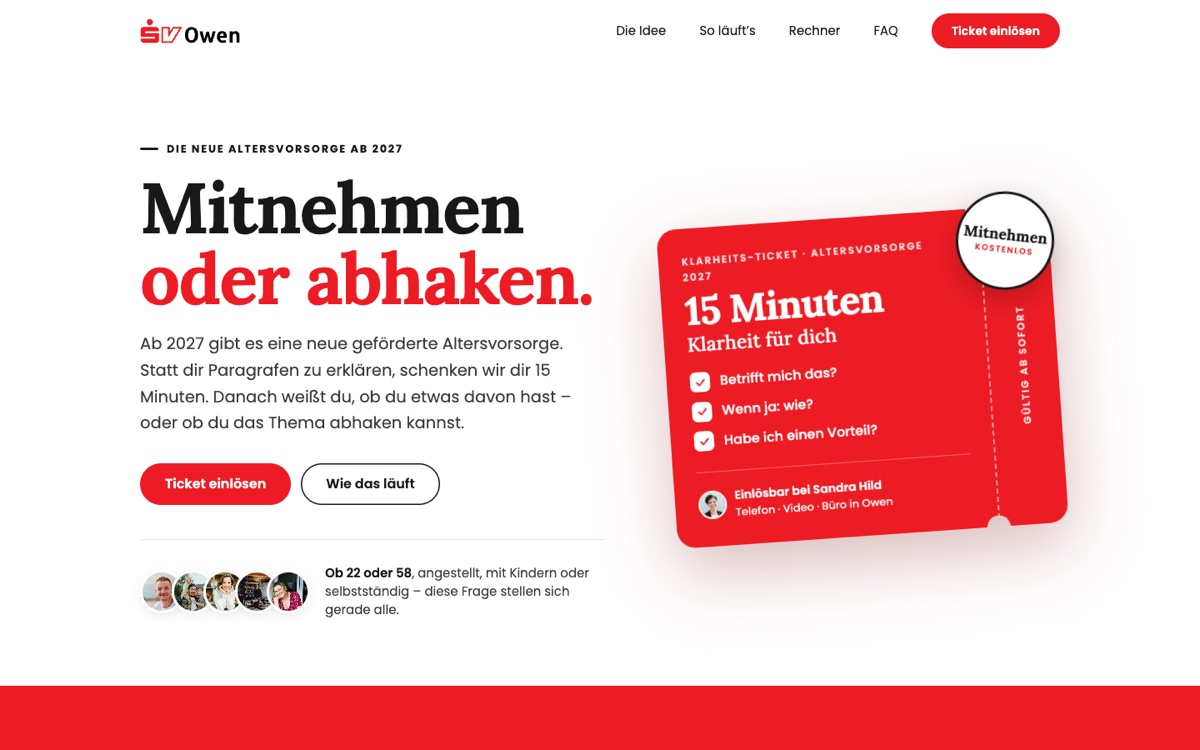
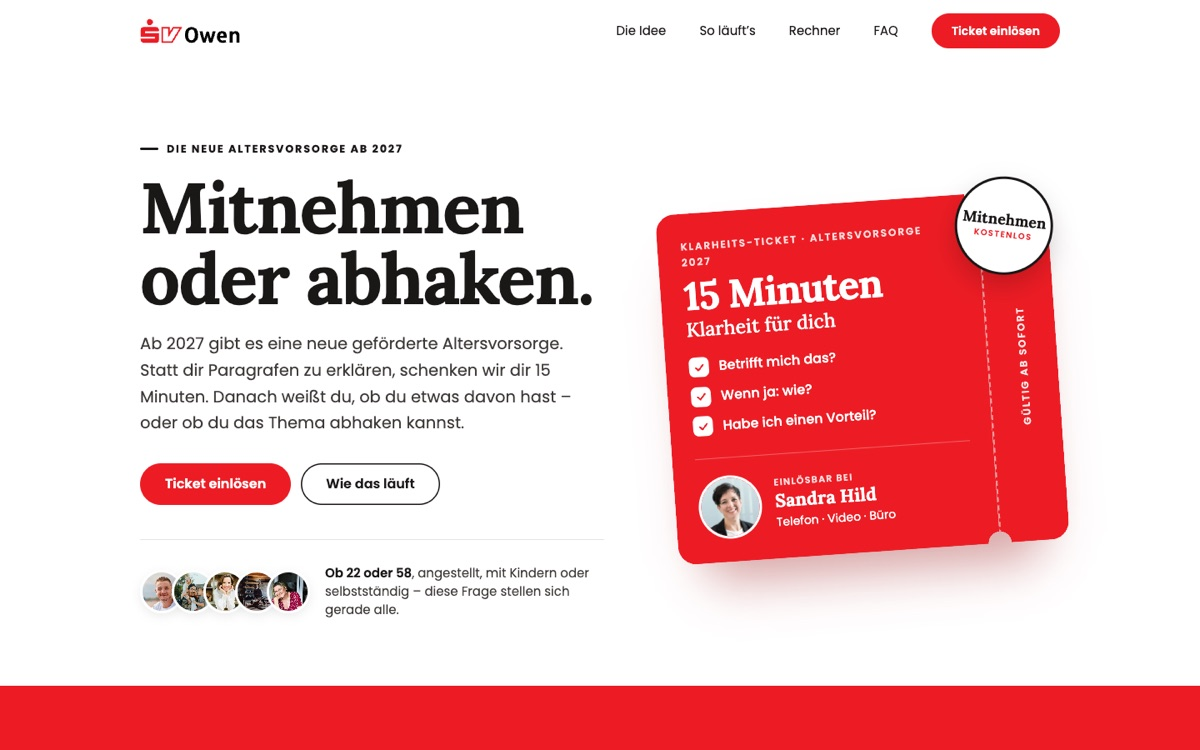
AVRG Landingpage 3: Ticket-Schatten ohne eckige Fläche (auch Ticket-Posting und Flyer), Überschrift nur schwarz, „Die Idee“ als helle Karte mit Sprechblasen; alle Vorschauen nachgezogen

diff --git a/site/projekte/avrg.html b/site/projekte/avrg.html
@@ -691,15 +691,15 @@ if(document.readyState==='loading')document.addEventListener('DOMContentLoaded',
       <p class="e2-kicker">Landingpage &middot; drei Varianten</p>
       <div class="ak-varianten">
         <a class="ak-karte lpv" href="/projekte/avrg-landingpage-1.html">
-          <span class="lpv-fenster"><span class="lpv-leiste"><i></i><i></i><i></i><span>agentur-beispiel.de/neue-altersvorsorge</span></span><span class="lpv-seite"><img src="/assets/projekte/avrg/lp-vorschau-voll-1.jpg?v=7" alt="Vorschau der ganzen Landingpage, Variante 1" loading="lazy"></span><span class="lpv-hinweis">Zum Durchscrollen darüberfahren</span></span>
+          <span class="lpv-fenster"><span class="lpv-leiste"><i></i><i></i><i></i><span>agentur-beispiel.de/neue-altersvorsorge</span></span><span class="lpv-seite"><img src="/assets/projekte/avrg/lp-vorschau-voll-1.jpg?v=8" alt="Vorschau der ganzen Landingpage, Variante 1" loading="lazy"></span><span class="lpv-hinweis">Zum Durchscrollen darüberfahren</span></span>
           <span class="ak-karte-text"><small>Landingpage &middot; Variante 1</small><b>Nah an der Vorlage</b><p>Kopf und Aufmacher exakt wie die bestehenden Landingpages von SV Owen: Foto über die volle Breite, Text mittig, roter Knopf. Darunter Problem, Lösung, Rechner, Termin.</p><span class="ak-pfeil">Variante 1 öffnen &rarr;</span></span>
         </a>
         <a class="ak-karte lpv" href="/projekte/avrg-landingpage-2.html">
-          <span class="lpv-fenster"><span class="lpv-leiste"><i></i><i></i><i></i><span>agentur-beispiel.de/neue-altersvorsorge-2</span></span><span class="lpv-seite"><img src="/assets/projekte/avrg/lp-vorschau-voll-2.jpg?v=7" alt="Vorschau der ganzen Landingpage, Variante 2" loading="lazy"></span><span class="lpv-hinweis">Zum Durchscrollen darüberfahren</span></span>
+          <span class="lpv-fenster"><span class="lpv-leiste"><i></i><i></i><i></i><span>agentur-beispiel.de/neue-altersvorsorge-2</span></span><span class="lpv-seite"><img src="/assets/projekte/avrg/lp-vorschau-voll-2.jpg?v=8" alt="Vorschau der ganzen Landingpage, Variante 2" loading="lazy"></span><span class="lpv-hinweis">Zum Durchscrollen darüberfahren</span></span>
           <span class="ak-karte-text"><small>Landingpage &middot; Variante 2</small><b>Was trifft auf dich zu?</b><p>Gleiche Farben und Elemente, eigene Story: Der Besucher wählt oben seine Lebenslage, die Seite antwortet mit seiner Frage. Dann das Gespräch als Zeitleiste.</p><span class="ak-pfeil">Variante 2 öffnen &rarr;</span></span>
         </a>
         <a class="ak-karte lpv" href="/projekte/avrg-landingpage-3.html">
-          <span class="lpv-fenster"><span class="lpv-leiste"><i></i><i></i><i></i><span>agentur-beispiel.de/neue-altersvorsorge-3</span></span><span class="lpv-seite"><img src="/assets/projekte/avrg/lp-vorschau-voll-3.jpg?v=7" alt="Vorschau der ganzen Landingpage, Variante 3" loading="lazy"></span><span class="lpv-hinweis">Zum Durchscrollen darüberfahren</span></span>
+          <span class="lpv-fenster"><span class="lpv-leiste"><i></i><i></i><i></i><span>agentur-beispiel.de/neue-altersvorsorge-3</span></span><span class="lpv-seite"><img src="/assets/projekte/avrg/lp-vorschau-voll-3.jpg?v=8" alt="Vorschau der ganzen Landingpage, Variante 3" loading="lazy"></span><span class="lpv-hinweis">Zum Durchscrollen darüberfahren</span></span>
           <span class="ak-karte-text"><small>Landingpage &middot; Variante 3</small><b>Das Klarheits-Ticket</b><p>Maßstab Volksfest-Seite: ein rotes Ticket „15 Minuten Klarheit“ als Bildidee, fünf Menschen, fünf Fragen, kräftige Flächen.</p><span class="ak-pfeil">Variante 3 öffnen &rarr;</span></span>
         </a>
       </div>

diff --git a/site/assets/projekte/avrg/avrg-v3.css b/site/assets/projekte/avrg/avrg-v3.css
@@ -52,7 +52,8 @@ h1,h2,h3{font-family:var(--head);font-weight:700;letter-spacing:-.02em;line-heig
 
 /* Das Klarheits-Ticket */
 .ticket-buehne{position:relative;display:grid;place-items:center;padding:30px 0}
-.ticket{position:relative;display:grid;grid-template-columns:1fr 84px;width:min(100%,470px);transform:rotate(-4deg);filter:drop-shadow(0 30px 40px rgba(120,10,10,.28));transition:transform .4s ease}
+.ticket{position:relative;display:grid;grid-template-columns:1fr 84px;width:min(100%,470px);transform:rotate(-4deg);isolation:isolate;transition:transform .4s ease}
+.ticket::before{content:"";position:absolute;z-index:-1;left:6%;right:6%;top:14%;bottom:-6%;border-radius:40px;background:rgba(150,20,20,.38);filter:blur(28px)}
 .ticket:hover{transform:rotate(-2deg) translateY(-4px)}
 .ticket__haupt,.ticket__abriss{background:var(--rot);color:#fff}
 .ticket__haupt{border-radius:22px 0 0 22px;padding:30px 28px 28px;
@@ -81,12 +82,16 @@ h1,h2,h3{font-family:var(--head);font-weight:700;letter-spacing:-.02em;line-heig
 /* ---------- Die Idee (rot) ---------- */
 .v3-zwei{display:grid;grid-template-columns:minmax(0,1fr) minmax(0,1fr);gap:clamp(32px,5vw,72px);align-items:center}
 .v3-idee p.v3-lead + p.v3-lead{margin-top:1rem}
-.v3-stimmen{background:var(--ink);color:#fff;border-radius:20px;padding:clamp(28px,3.4vw,40px)}
-.v3-stimmen ul{list-style:none;margin:0;padding:0;display:grid;gap:1.1rem}
-.v3-stimmen li{font-family:var(--head);font-size:clamp(1.3rem,2vw,1.6rem);line-height:1.3}
-.v3-stimmen li::before{content:"„"}
-.v3-stimmen li::after{content:"“"}
-.v3-stimmen p{margin-top:1.6rem;padding-top:1.3rem;border-top:2px solid var(--rot);font-size:15px;color:#d8d3cc;line-height:1.6}
+.v3-stimmen{background:#fff;color:var(--ink);border-radius:24px;padding:clamp(26px,3.2vw,38px);box-shadow:0 30px 60px -30px rgba(90,0,0,.45)}
+.v3-stimmen__titel{font-family:var(--head);font-weight:700;font-size:1.35rem;margin:0 0 1.2rem;color:var(--ink)}
+.v3-stimmen ul{list-style:none;margin:0;padding:0;display:grid;gap:14px}
+.v3-stimmen li{display:flex;align-items:flex-end;gap:12px}
+.v3-stimmen li:nth-child(2){flex-direction:row-reverse}
+.v3-stimmen li img{width:46px;height:46px;border-radius:50%;object-fit:cover;flex:none}
+.v3-stimmen li span{background:var(--hell);border-radius:20px 20px 20px 6px;padding:13px 17px;font-size:1.02rem;line-height:1.4;max-width:82%}
+.v3-stimmen li:nth-child(2) span{border-radius:20px 20px 6px 20px}
+.v3-stimmen__fuss{display:flex;align-items:center;gap:12px;margin-top:1.5rem;padding-top:1.2rem;border-top:1px solid var(--line);font-size:15px;color:var(--text);line-height:1.5}
+.v3-stimmen__fuss b{color:var(--rot);font-weight:600}
 
 /* ---------- Menschen ---------- */
 .v3-menschen{display:grid;grid-template-columns:repeat(5,minmax(0,1fr));gap:16px;margin-top:clamp(36px,4vw,52px)}

diff --git a/site/projekte/avrg-landingpage-3.html b/site/projekte/avrg-landingpage-3.html
@@ -7,7 +7,7 @@
 <meta name="description" content="Die neue geförderte Altersvorsorge ab 2027: Dein Klarheits-Ticket – in 15 Minuten weißt du, ob du etwas davon hast.">
 <meta name="robots" content="noindex, nofollow">
 <link rel="stylesheet" href="/assets/projekte/avrg/avrg.css?v=2">
-<link rel="stylesheet" href="/assets/projekte/avrg/avrg-v3.css?v=2">
+<link rel="stylesheet" href="/assets/projekte/avrg/avrg-v3.css?v=8">
 </head>
 <body>
 <svg width="0" height="0" style="position:absolute" aria-hidden="true"><defs>
@@ -36,7 +36,7 @@
 <section class="v3-held"><div class="wrap">
   <div>
     <p class="v3-kicker">Die neue Altersvorsorge ab 2027</p>
-    <h1>Mitnehmen <span class="v3-rot">oder abhaken.</span></h1>
+    <h1>Mitnehmen oder abhaken.</h1>
     <p class="v3-lead">Ab 2027 gibt es eine neue geförderte Altersvorsorge. Statt dir Paragrafen zu erklären, schenken wir dir 15 Minuten. Danach weißt du, ob du etwas davon hast – oder ob du das Thema abhaken kannst.</p>
     <div class="v3-knoepfe"><a class="knopf" href="#termin">Ticket einlösen</a><a class="knopf knopf--rand" href="#so-gehts">Wie das läuft</a></div>
     <div class="v3-leute"><span class="v3-leute__fotos"><img src="/assets/projekte/avrg/fotos/junger-mann.jpg" alt=""><img src="/assets/projekte/avrg/fotos/vater-kinder.jpg" alt=""><img src="/assets/projekte/avrg/fotos/frau-40.jpg" alt=""><img src="/assets/projekte/avrg/fotos/handwerker.jpg" alt=""><img src="/assets/projekte/avrg/fotos/frau-55.jpg" alt=""></span><p><b>Ob 22 oder 58</b>, angestellt, mit Kindern oder selbstständig – diese Frage stellen sich gerade alle.</p></div>
@@ -66,8 +66,13 @@
     <p class="v3-lead">Wir drehen es um. Wir erklären dir nicht das Gesetz – wir schauen auf dein Leben und sagen dir, ob das Gesetz darin eine Rolle spielt.</p>
   </div>
   <div class="v3-stimmen">
-    <ul><li>Ich habe Post bekommen und verstehe nur Bahnhof.</li><li>Ist mein Riester-Vertrag jetzt schlecht?</li><li>Alle sagen, das muss man machen. Muss ich?</li></ul>
-    <p>Kommt dir einer dieser Sätze bekannt vor? Dann ist das Ticket für dich.</p>
+    <p class="v3-stimmen__titel">Kommt dir das bekannt vor?</p>
+    <ul>
+      <li><img src="/assets/projekte/avrg/fotos/frau-brief.jpg" alt=""><span>Ich habe Post bekommen und verstehe nur Bahnhof.</span></li>
+      <li><img src="/assets/projekte/avrg/fotos/frau-40.jpg" alt=""><span>Ist mein Riester-Vertrag jetzt schlecht?</span></li>
+      <li><img src="/assets/projekte/avrg/fotos/vater-kinder.jpg" alt=""><span>Alle sagen, das muss man machen. Muss ich?</span></li>
+    </ul>
+    <p class="v3-stimmen__fuss"><b>→</b> Dann ist das Klarheits-Ticket für dich.</p>
   </div>
 </div></section>
 

diff --git a/site/projekte/avrg-medienkonzept.html b/site/projekte/avrg-medienkonzept.html
@@ -13,7 +13,7 @@
 <link rel="stylesheet" href="/assets/e2/schwarzgelb-ergaenzung.css">
 <link rel="stylesheet" href="/assets/e2/kontakt.css">
 <link rel="stylesheet" href="/assets/projekte/avrg/avrg-konzept.css?v=4">
-<link rel="stylesheet" href="/assets/projekte/avrg/avrg-mk.css?v=2">
+<link rel="stylesheet" href="/assets/projekte/avrg/avrg-mk.css?v=8">
 </head>
 <body class="e2">
 
@@ -741,10 +741,10 @@ if(document.readyState==='loading')document.addEventListener('DOMContentLoaded',
       <p class="e2-lead">Drei Varianten zur Auswahl. Jeder Baustein beantwortet eine Frage, die der Besucher in diesem Moment hat – und führt zum Termin.</p>
       <div class="ak-lp" style="margin-top:clamp(32px,4vw,48px)">
         <div>
-          <div class="mk-varianten"><button type="button" class="mk-variante" data-v="1" aria-pressed="true"><img src="/assets/projekte/avrg/lp-vorschau-1.jpg?v=7" alt="">Variante 1 · Vorlage</button><button type="button" class="mk-variante" data-v="2" aria-pressed="false"><img src="/assets/projekte/avrg/lp-vorschau-2.jpg?v=7" alt="">Variante 2 · Lebenslage</button><button type="button" class="mk-variante" data-v="3" aria-pressed="false"><img src="/assets/projekte/avrg/lp-vorschau-3.jpg?v=7" alt="">Variante 3 · Ticket</button></div>
+          <div class="mk-varianten"><button type="button" class="mk-variante" data-v="1" aria-pressed="true"><img src="/assets/projekte/avrg/lp-vorschau-1.jpg?v=8" alt="">Variante 1 · Vorlage</button><button type="button" class="mk-variante" data-v="2" aria-pressed="false"><img src="/assets/projekte/avrg/lp-vorschau-2.jpg?v=8" alt="">Variante 2 · Lebenslage</button><button type="button" class="mk-variante" data-v="3" aria-pressed="false"><img src="/assets/projekte/avrg/lp-vorschau-3.jpg?v=8" alt="">Variante 3 · Ticket</button></div>
           <div class="ak-browser">
             <div class="ak-browser-bar"><i></i><i></i><i></i><span id="mk-lp-url">agentur-beispiel.de/neue-altersvorsorge</span></div>
-            <div class="ak-browser-seite" tabindex="0" aria-label="Vorschau der Landingpage, scrollbar"><img id="mk-lp-bild" src="/assets/projekte/avrg/lp-vorschau-voll-1.jpg?v=7" alt="Vorschau der gesamten Landingpage"></div>
+            <div class="ak-browser-seite" tabindex="0" aria-label="Vorschau der Landingpage, scrollbar"><img id="mk-lp-bild" src="/assets/projekte/avrg/lp-vorschau-voll-1.jpg?v=8" alt="Vorschau der gesamten Landingpage"></div>
           </div>
           <p class="ak-browser-hinweis">Vorschau zum Durchscrollen &middot; die echten Seiten sind voll klickbar</p>
         </div>

diff --git a/site/assets/projekte/avrg/avrg-mk.css b/site/assets/projekte/avrg/avrg-mk.css
@@ -257,7 +257,7 @@
 
 /* Ticket */
 .cr--ticket{background:var(--h)}
-.cr__tk{position:absolute;left:8cqi;right:8cqi;top:40cqi;height:66cqi;transform:rotate(-6deg);display:grid;grid-template-columns:1fr 18cqi;filter:drop-shadow(0 3cqi 4cqi rgba(160,10,10,.25))}
+.cr__tk{position:absolute;left:8cqi;right:8cqi;top:40cqi;height:66cqi;transform:rotate(-6deg);display:grid;grid-template-columns:1fr 18cqi;isolation:isolate;}
 .cr__tk-haupt,.cr__tk-ab{background:var(--r);color:#fff}
 .cr__tk-haupt{border-radius:4cqi 0 0 4cqi;padding:7cqi 6cqi;display:flex;flex-direction:column;justify-content:space-between;
   -webkit-mask:radial-gradient(circle 3cqi at 100% 0,#0000 98%,#000) top/100% 51% no-repeat,radial-gradient(circle 3cqi at 100% 100%,#0000 98%,#000) bottom/100% 51% no-repeat;
@@ -291,7 +291,7 @@
 
 /* Ticket-Flyer (Vorder- und Rückseite) */
 .tf{position:relative;height:clamp(380px,44vw,580px)}
-.tf__karte{position:absolute;width:min(100%,520px);aspect-ratio:210/99;display:grid;grid-template-columns:1fr 22%;container-type:inline-size;font-family:'Ubuntu',system-ui,sans-serif;filter:drop-shadow(0 24px 30px rgba(0,0,0,.18))}
+.tf__karte{position:absolute;width:min(100%,520px);aspect-ratio:210/99;display:grid;grid-template-columns:1fr 22%;container-type:inline-size;font-family:'Ubuntu',system-ui,sans-serif;isolation:isolate;}
 .tf__karte--vorn{left:0;top:0;transform:rotate(-5deg);z-index:2}
 .tf__karte--hinten{right:0;bottom:0;transform:rotate(4deg)}
 .tf__haupt,.tf__abriss{position:relative}
@@ -396,3 +396,7 @@
 .mk-idee b{display:block;font:700 1.3rem/1.25 var(--font-serif);margin-top:1rem}
 .e2 main .mk-idee p{margin:.6rem 0 0;color:var(--e2-ink-2);font-size:.95rem;line-height:1.55}
 @media (max-width:900px){.mk-ausbau-raster{grid-template-columns:minmax(0,1fr)}}
+
+/* Schatten der Tickets als weiche Fläche dahinter (Safari zeichnet drop-shadow bei Masken eckig) */
+.cr__tk::before,.tf__karte::before{content:"";position:absolute;z-index:-1;left:6%;right:6%;top:14%;bottom:-5%;border-radius:8cqi;background:rgba(150,20,20,.3);filter:blur(5cqi)}
+.tf__karte--hinten::before{background:rgba(0,0,0,.18)}

diff --git a/site/assets/projekte/avrg/mk.js b/site/assets/projekte/avrg/mk.js
@@ -36,7 +36,7 @@
     b.addEventListener('click', function () {
       var v = b.dataset.v;
       $$('.mk-variante').forEach(function (x) { x.setAttribute('aria-pressed', x === b ? 'true' : 'false'); });
-      $('#mk-lp-bild').src = '/assets/projekte/avrg/lp-vorschau-voll-' + v + '.jpg?v=7';
+      $('#mk-lp-bild').src = '/assets/projekte/avrg/lp-vorschau-voll-' + v + '.jpg?v=8';
       $('.ak-browser-seite').scrollTop = 0;
       $('#mk-lp-url').textContent = 'agentur-beispiel.de/neue-altersvorsorge' + (v === '1' ? '' : '-' + v);
       $$('.mk-bausteine').forEach(function (l) { l.hidden = l.dataset.v !== v; });
